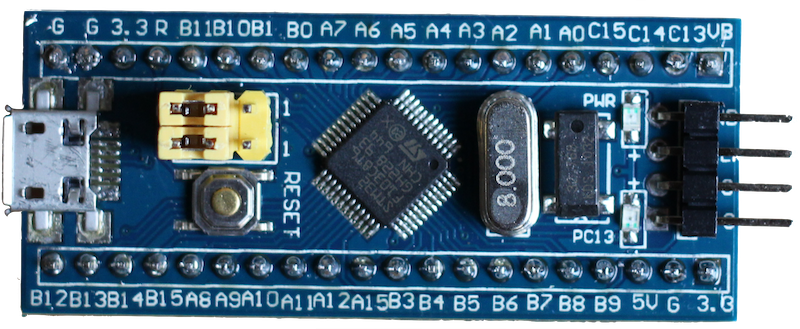
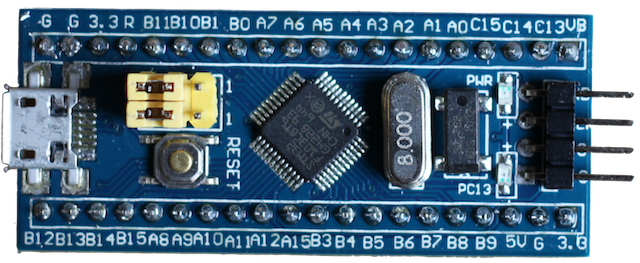
reduce figure size

diff --git a/README.md b/README.md
@@ -7,6 +7,8 @@ a STM32F103C8T6 CPU running at 72MHz, it has 64KB flash and 20KB SRAM, more
 information can be found in the official [datasheet]. The following
 provides an introduction on how to use the board together with RIOT.
 
+![img:bluepill](/doc/bluepill.png)
+
 ## What else do you need
 
 To start using and developing with the embedded device and RIOT you'll need
@@ -60,7 +62,7 @@ Found DFU: [1d50:6017] ver=0100, devnum=9, cfg=1, intf=0, path="20-1", alt=0, na
 you need to connect pin `B1` to ground (`G`) and press reset to stop bootloader
 from loading an existing firmware:
 
-![bootloader](/doc/bootloader.png)
+![img:bootloader](/doc/bootloader.png)
 
 * build and flash the Morse code example onto a board:
 
@@ -81,7 +83,7 @@ can decode it. Note, there is a *Morse code cheat sheet* in the subdirectory
 and see the morse code printed, see [morse README.md](/morse/README.md) for
 further information. Connect the USB-to-UART adapter as follows
 
-![USB-to-UART](/doc/shell.png)
+![img:USB-to-UART](/doc/shell.png)
 
 * afterwards run `make term` to start the shell.
 
